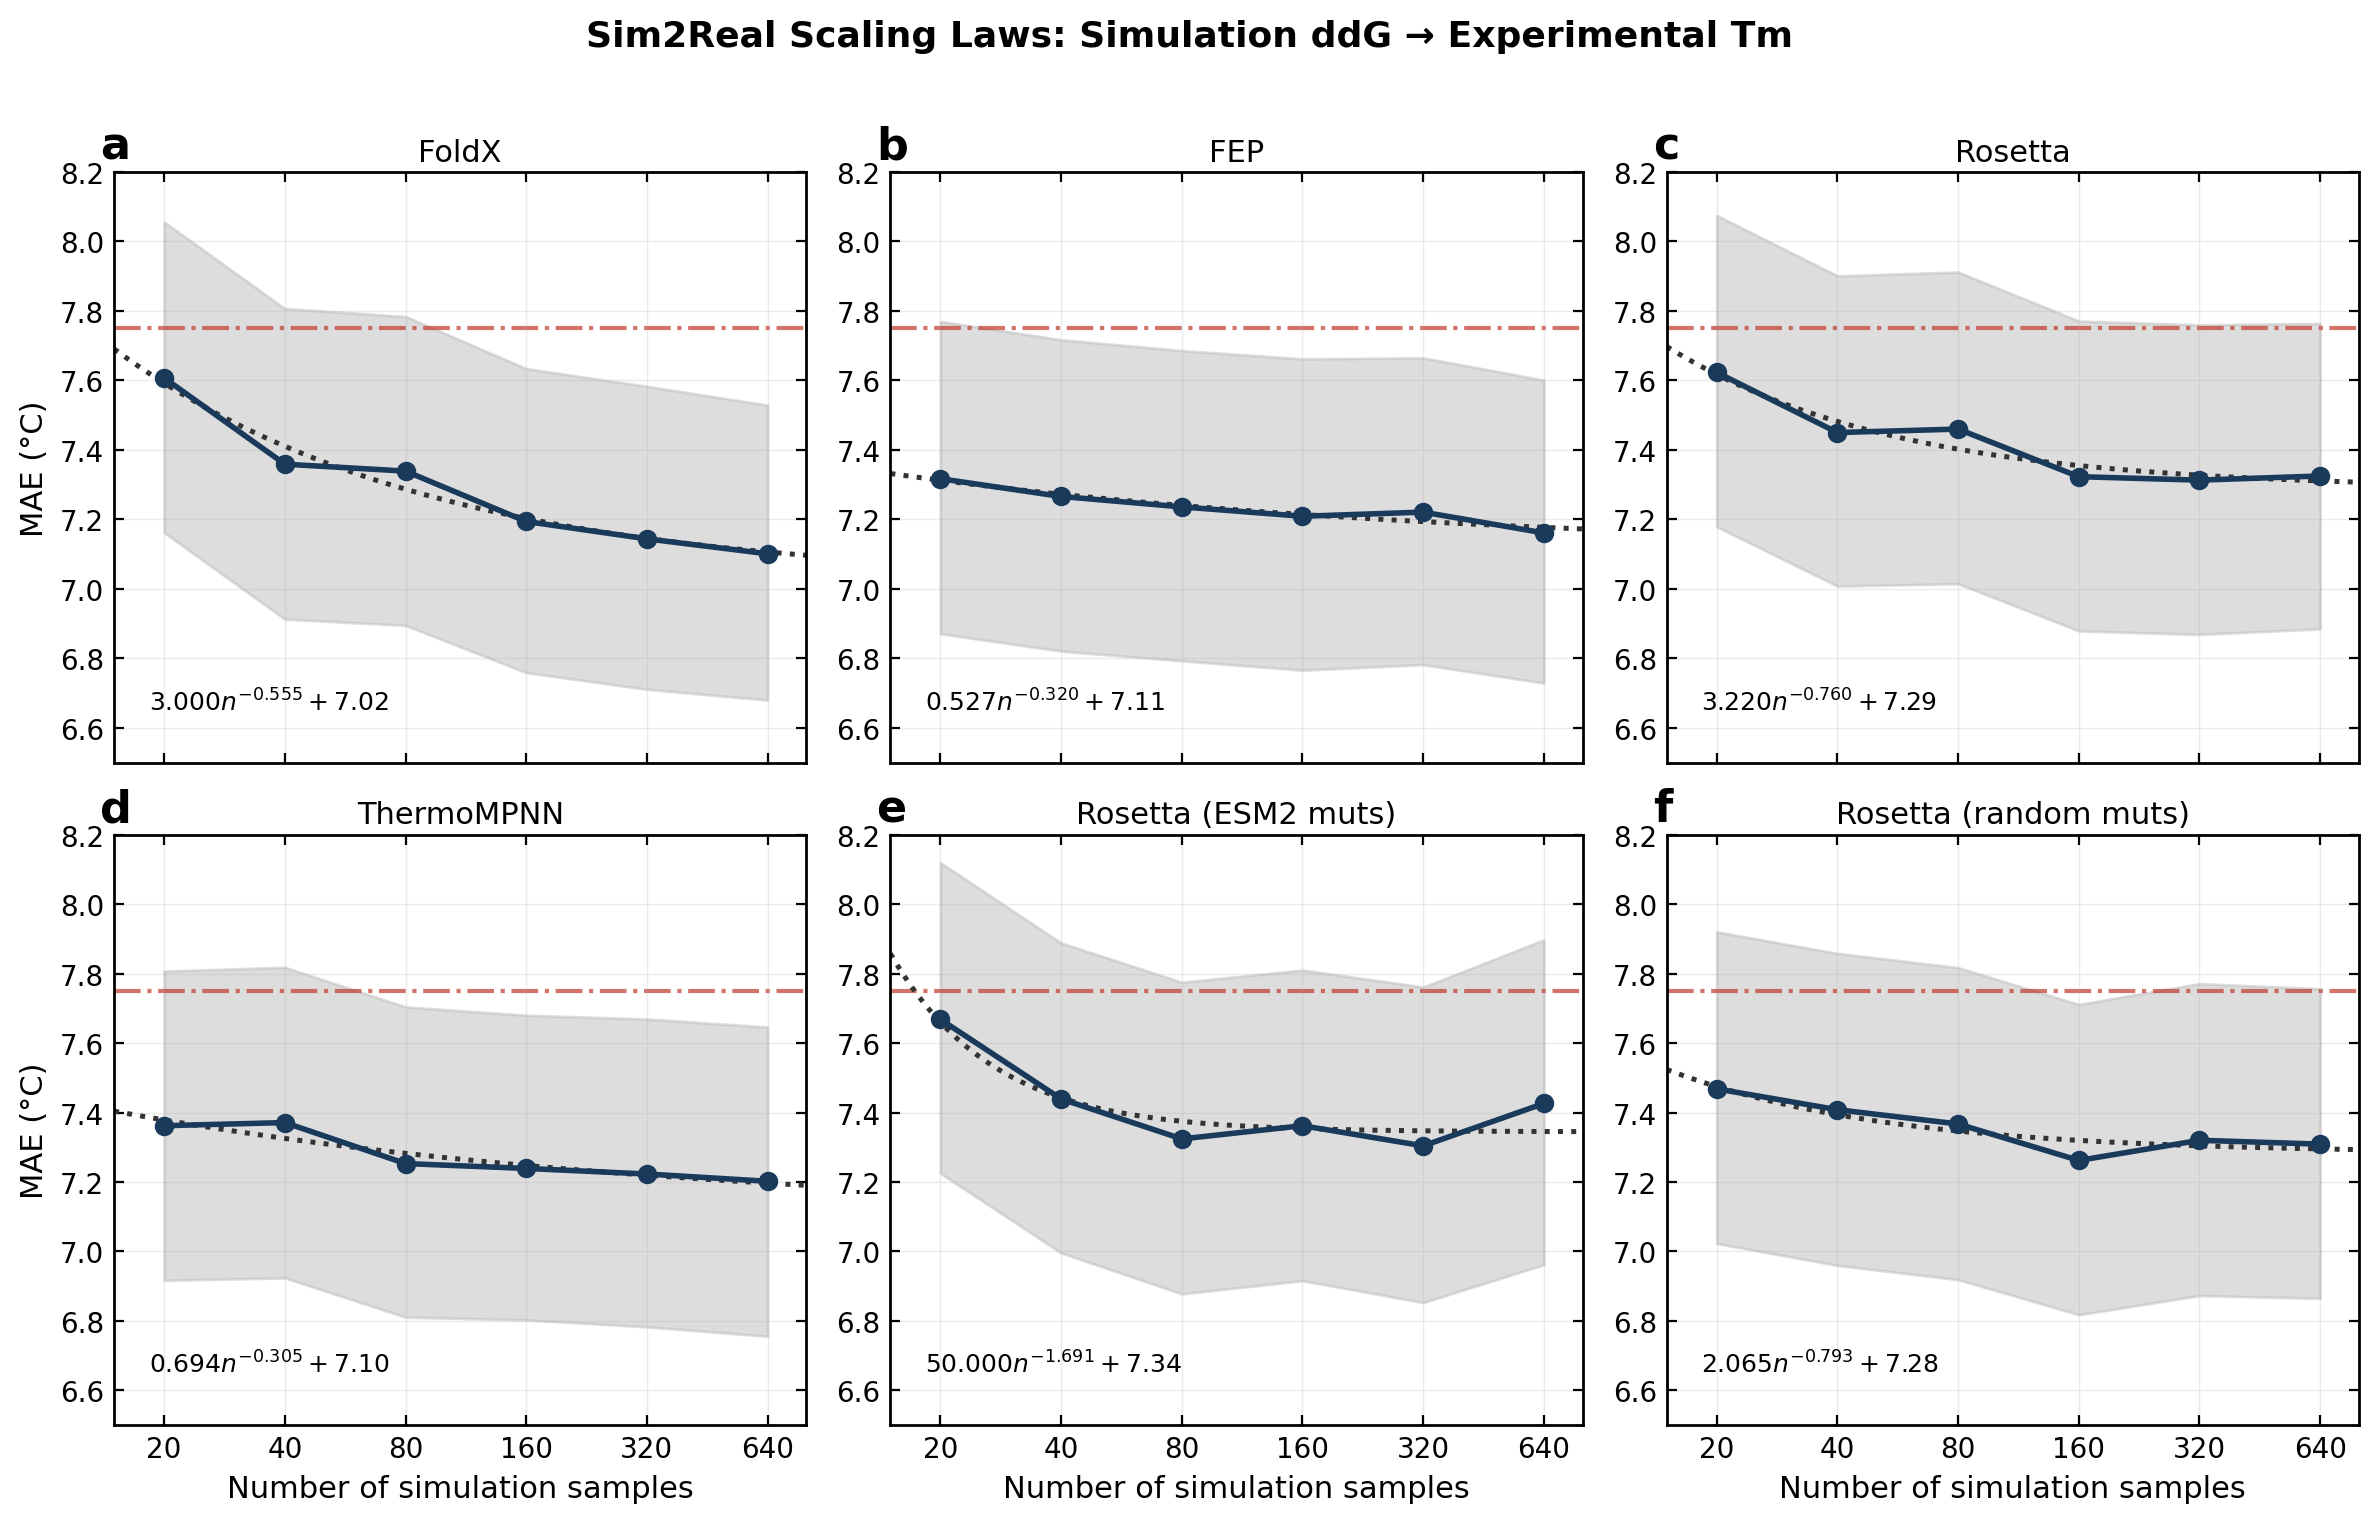
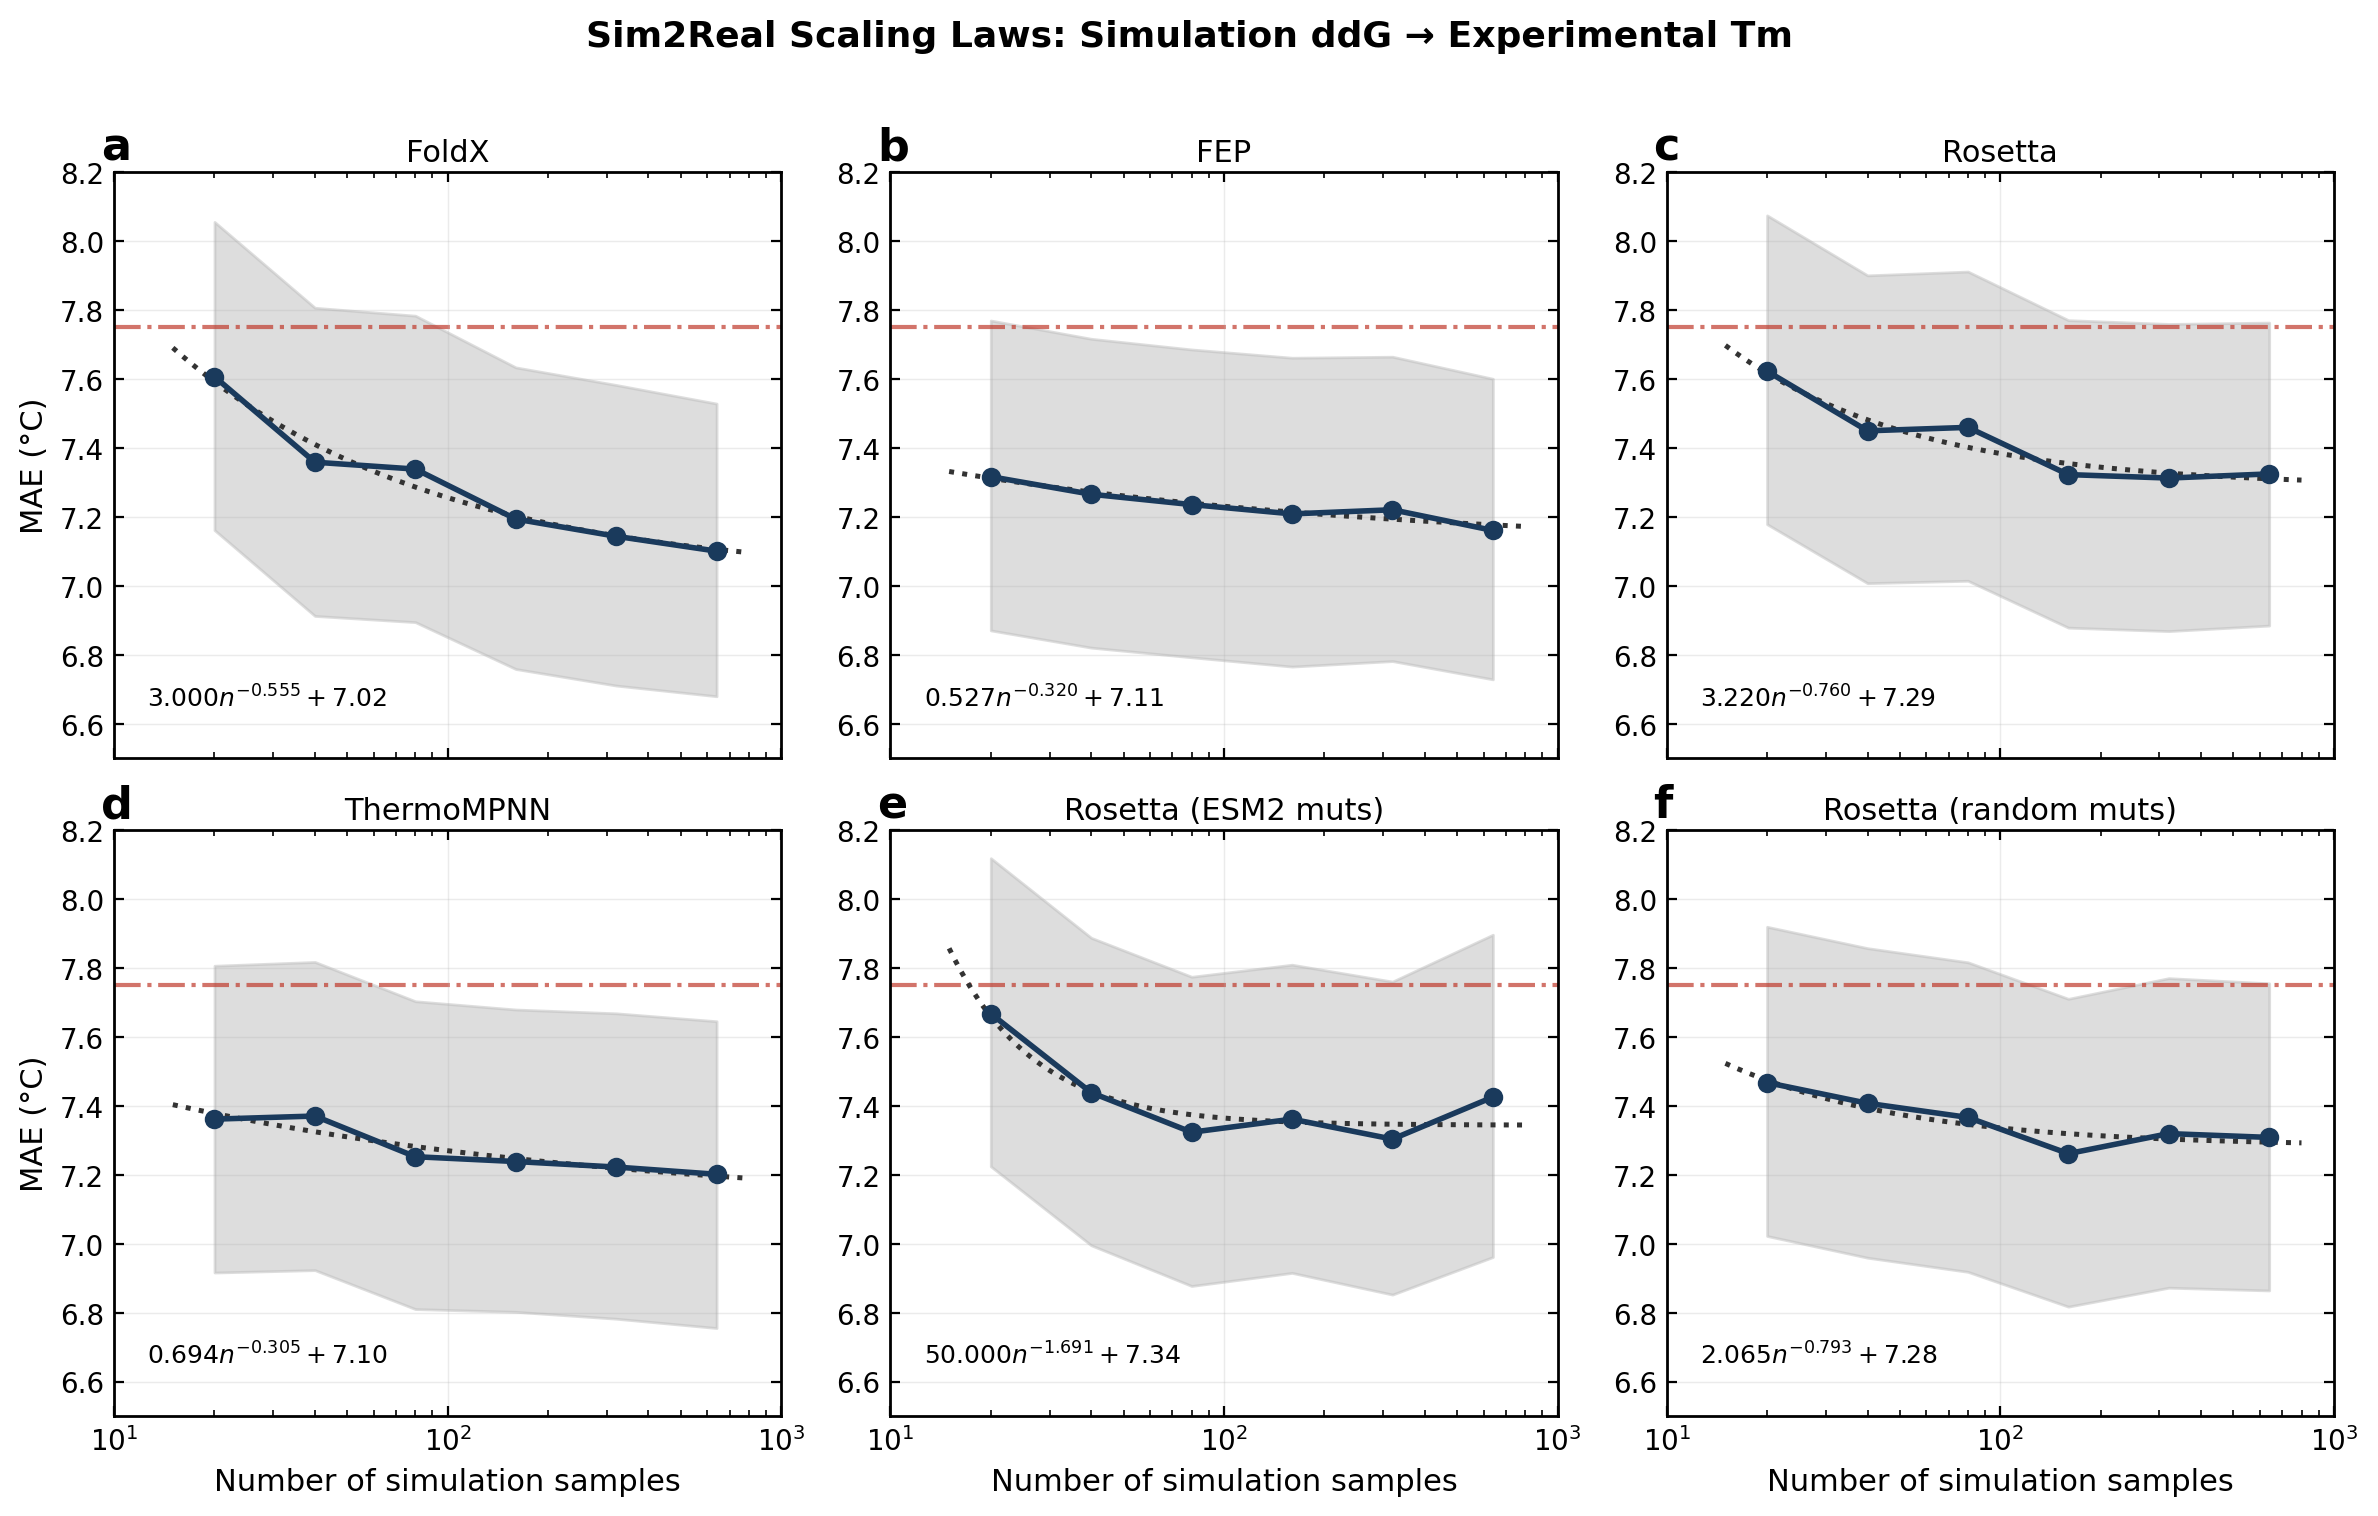
plot: fix x-axis to proper log scale (10^n labels)

diff --git a/plot/scaling_results.py b/plot/scaling_results.py
@@ -6,7 +6,7 @@ import numpy as np
 import matplotlib
 matplotlib.use('Agg')
 import matplotlib.pyplot as plt
-from matplotlib.ticker import ScalarFormatter
+import matplotlib.ticker
 from scipy.optimize import curve_fit
 
 plt.rcParams.update({
@@ -127,14 +127,13 @@ for idx, (name, d) in enumerate(data.items()):
 
     # Axes
     ax.set_xscale('log')
-    ax.set_xlim(15, 800)
+    ax.set_xlim(10, 1000)
     ax.set_ylim(6.5, 8.2)
     ax.grid(True, alpha=0.25, linewidth=0.5)
 
-    # X ticks
-    ax.set_xticks([20, 40, 80, 160, 320, 640])
-    ax.get_xaxis().set_major_formatter(ScalarFormatter())
-    ax.tick_params(axis='both', which='minor', length=0)
+    # X ticks — log scale with 10^n labels
+    ax.xaxis.set_major_formatter(matplotlib.ticker.LogFormatterSciNotation())
+    ax.xaxis.set_minor_formatter(matplotlib.ticker.NullFormatter())
 
     # Y label only on left column
     if idx % 3 == 0:
